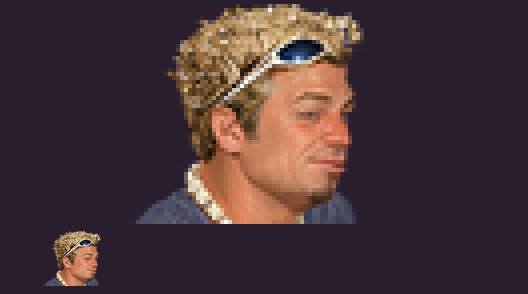
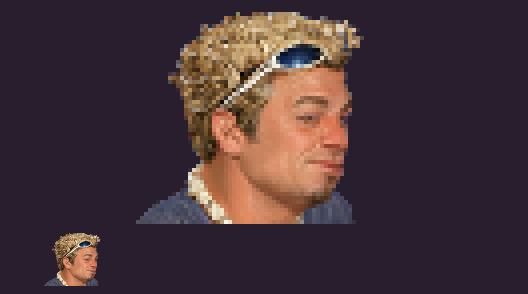
art(battle): Lord Pilsner turn-order portrait v3, tighter head-and-shoulders framing (head fills the height, clean transparent edges; blind gate P pass after v2 failed); turn_portrait.py defaults reproduce it (Eurobound-du51)
Claude-Session: https://claude.ai/code/session_01Rk2Ri2taskUyV7WqhbcnHT

diff --git a/Tools/char3d/turn_portrait.py b/Tools/char3d/turn_portrait.py
@@ -1,7 +1,7 @@
 """Turn-order portrait (132x56, transparent) cut from a look-B idle frame: head and shoulders, three-quarter view. PIL only.
 
-python tools/char3d/turn_portrait.py <idle frame.png, e.g. .../idle/SE/00.png> <out.png> [head_px=72] [w=132] [h=56] [tall=1.2] [top=0.0]
-Finds the head (top of the alpha), takes a w:h window `head_px`*tall high (1.2 = hair to collar, filling the strip; 1.55 = looser head and shoulders) starting top*head_px above the hair centred on the head's column, and area-downsamples
+python tools/char3d/turn_portrait.py <idle frame.png, e.g. .../idle/SE/00.png> <out.png> [head_px=72] [w=132] [h=56] [tall=1.42] [top=0.07]
+Finds the head (top of the alpha), takes a w:h window `head_px`*tall high (1.42 with top 0.07 = the gate-P approved framing: head fills the height, clear rows above the hair; 1.55 is looser) starting top*head_px above the hair centred on the head's column, and area-downsamples
 to w x h. head_px = the character's head height in the frame at 300 px/m (about 72 for a 1.8 m adult). Battle HUD plan:
 dev/asset_team/plans/battle_hud_icons_plan.md (Eurobound-du51). No Blender needed.
 """
@@ -16,11 +16,14 @@ H = int(sys.argv[5]) if len(sys.argv) > 5 else 56
 im = Image.open(src).convert("RGBA"); a = np.array(im)[..., 3] > 128
 ys = np.where(a.any(1))[0]; top = int(ys.min())
 xs = np.where(a[top:top + int(hp)].any(0))[0]; cx = (int(xs.min()) + int(xs.max())) / 2   # head column
-TALL = float(sys.argv[6]) if len(sys.argv) > 6 else 1.2
-TOP = float(sys.argv[7]) if len(sys.argv) > 7 else 0.0
+TALL = float(sys.argv[6]) if len(sys.argv) > 6 else 1.42
+TOP = float(sys.argv[7]) if len(sys.argv) > 7 else 0.07
 ch = hp * TALL; cw = ch * W / H; y0 = top - hp * TOP
 box = tuple(int(round(v)) for v in (cx - cw / 2, y0, cx + cw / 2, y0 + ch))
 big = Image.new("RGBA", (box[2] - box[0], box[3] - box[1]), (0, 0, 0, 0))
 big.paste(im.crop(box), (0, 0))
-big.resize((W, H), Image.LANCZOS).save(out)
+pm = np.array(big).astype(np.float32); pm[..., :3] *= pm[..., 3:4] / 255.0   # premultiply so the edge takes no dark fringe from empty pixels
+sm = np.array(Image.fromarray(pm.clip(0, 255).astype(np.uint8), "RGBA").resize((W, H), Image.BOX)).astype(np.float32)
+al = sm[..., 3:4]; sm[..., :3] = np.where(al > 0, sm[..., :3] * 255.0 / np.maximum(al, 1), 0)
+Image.fromarray(sm.clip(0, 255).astype(np.uint8), "RGBA").save(out)
 print("portrait", out, "crop", box, "scale", round(H / ch, 3))
